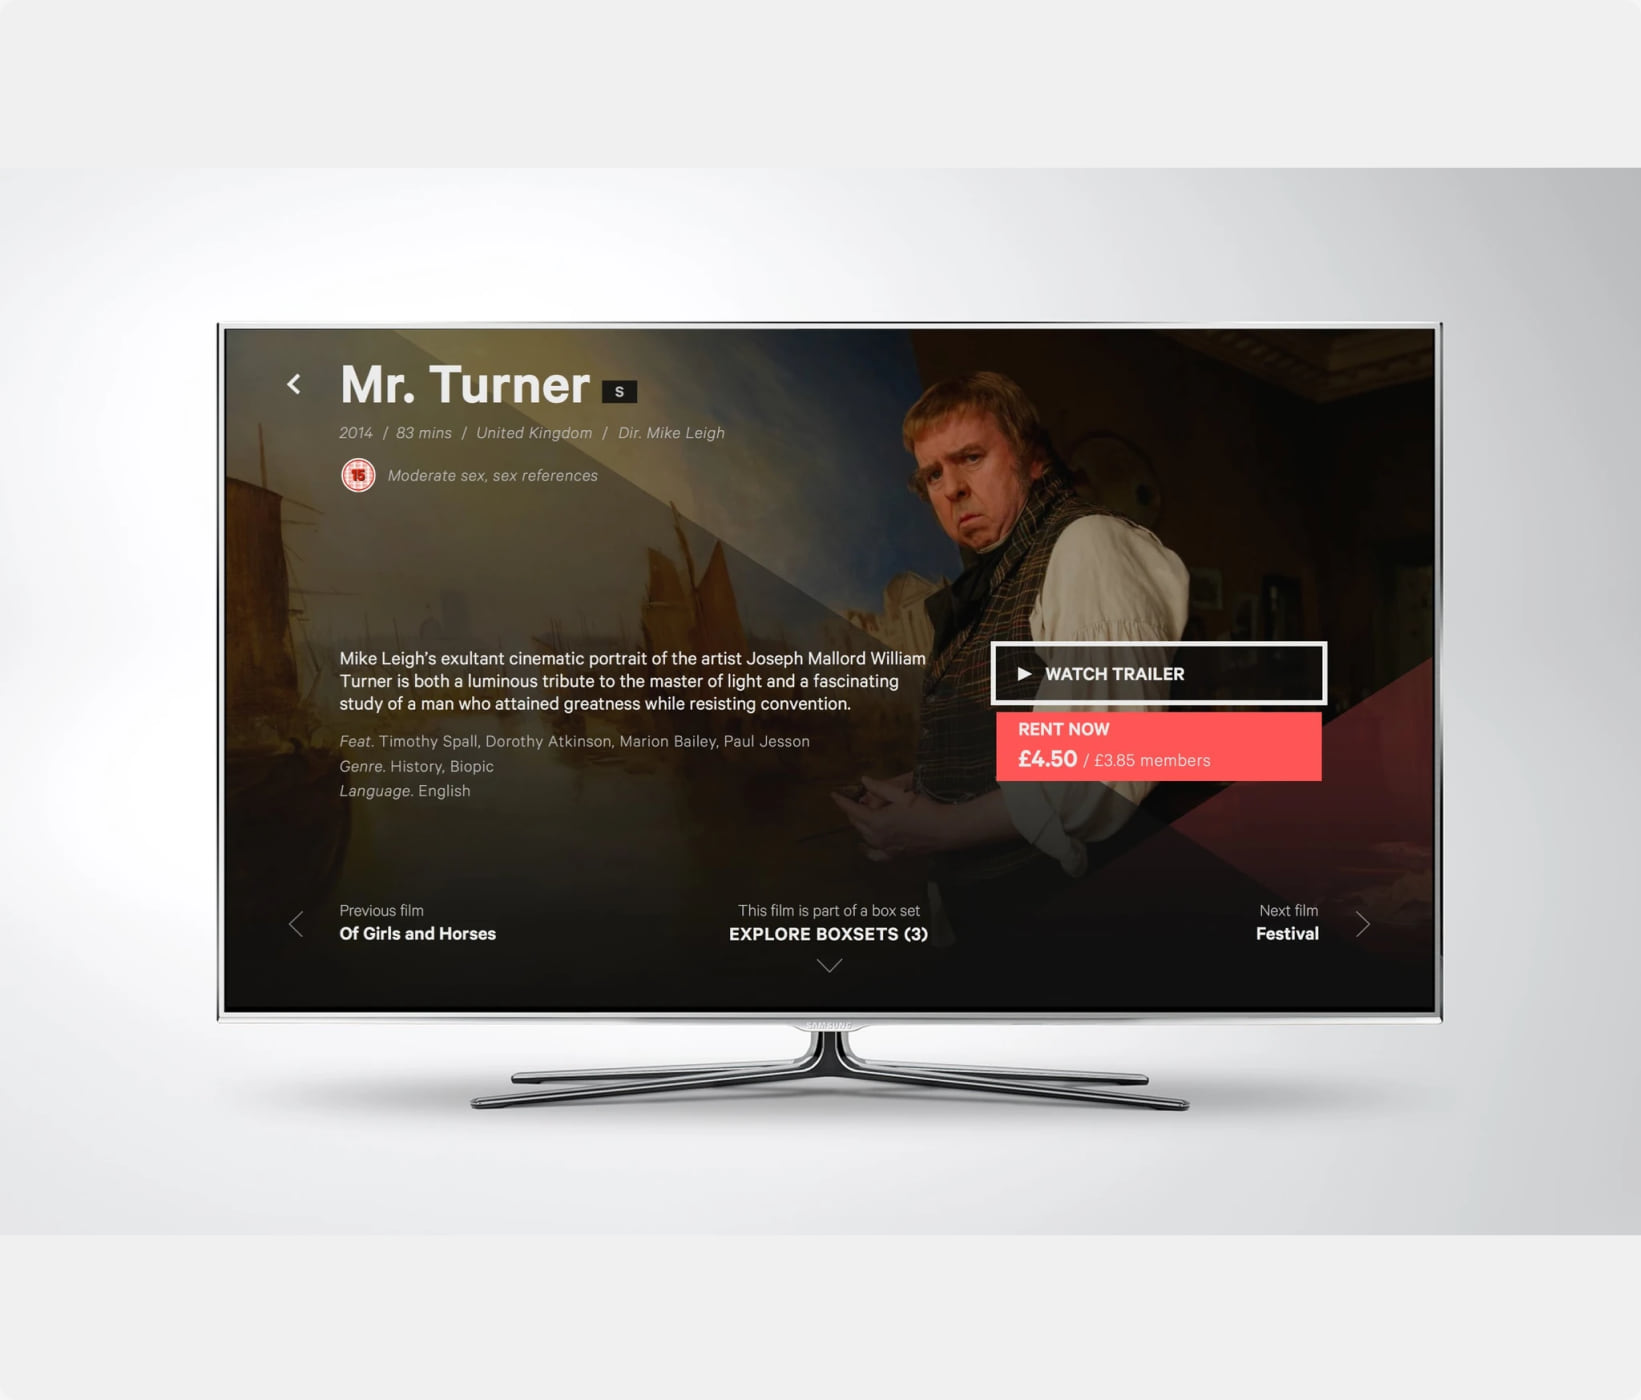
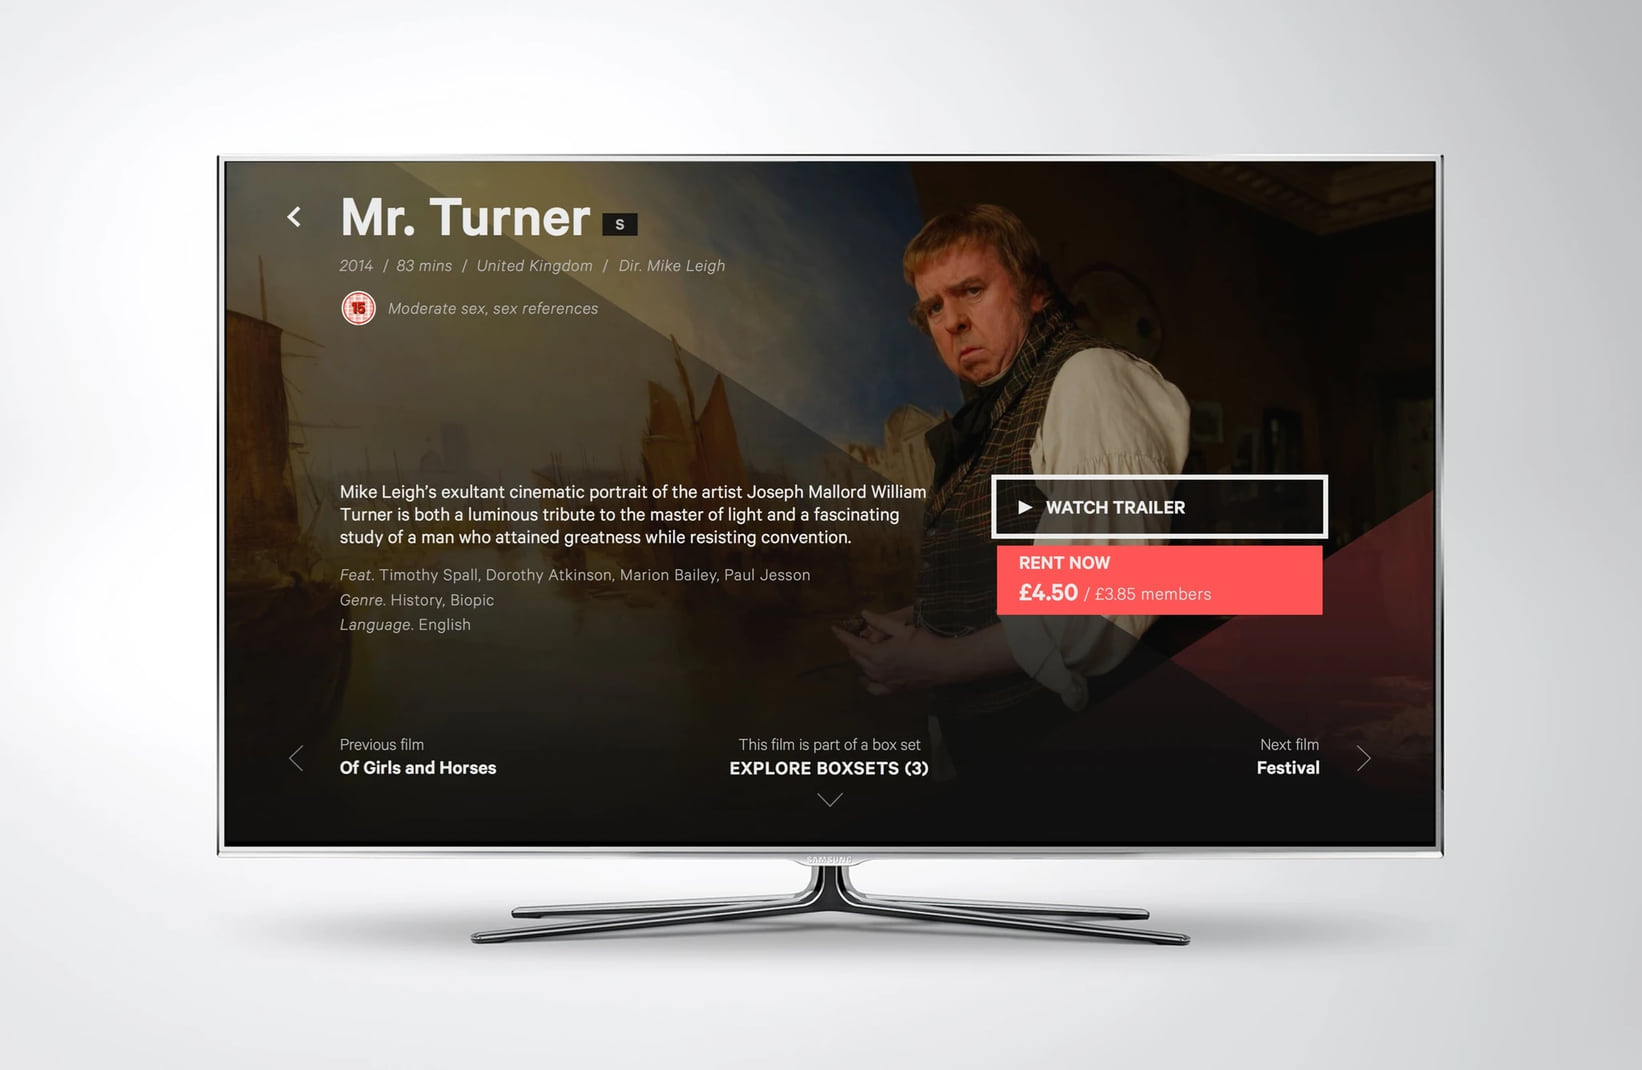
Archive 22b: card wraps the Mr. Turner TV image at its own shape (no gradient crop)

Changed region(s): [[0.1243, 0.0, 1.0, 1.0], [0.8391, 0.4626, 0.8702, 0.4935], [0.4973, 0.586, 0.5283, 0.6168]]

diff --git a/site/archive.html b/site/archive.html
@@ -158,8 +158,9 @@
     <div class="media-pair">
       <img class="media-img" src="img/archive/22a-1x.jpg" srcset="img/archive/22a-1x.jpg 821w, img/archive/22a-2x.jpg 1641w"
            sizes="(max-width: 640px) calc(100vw - 32px), 47vw" alt="Streaming service on tablet and phone: Mr. Turner" width="821" height="700" loading="lazy" decoding="async">
+      <!-- 22b: exception, the card wraps the image at its own shape (2048 × 1335) so the gradient isn't cropped -->
       <img class="media-img" src="img/archive/22b-1x.jpg" srcset="img/archive/22b-1x.jpg 821w, img/archive/22b-2x.jpg 1641w"
-           sizes="(max-width: 640px) calc(100vw - 32px), 47vw" alt="TV streaming app: Mr. Turner title page" width="821" height="700" loading="lazy" decoding="async">
+           sizes="(max-width: 640px) calc(100vw - 32px), 47vw" alt="TV streaming app: Mr. Turner title page" width="821" height="535" loading="lazy" decoding="async">
     </div>
   </section>
 
